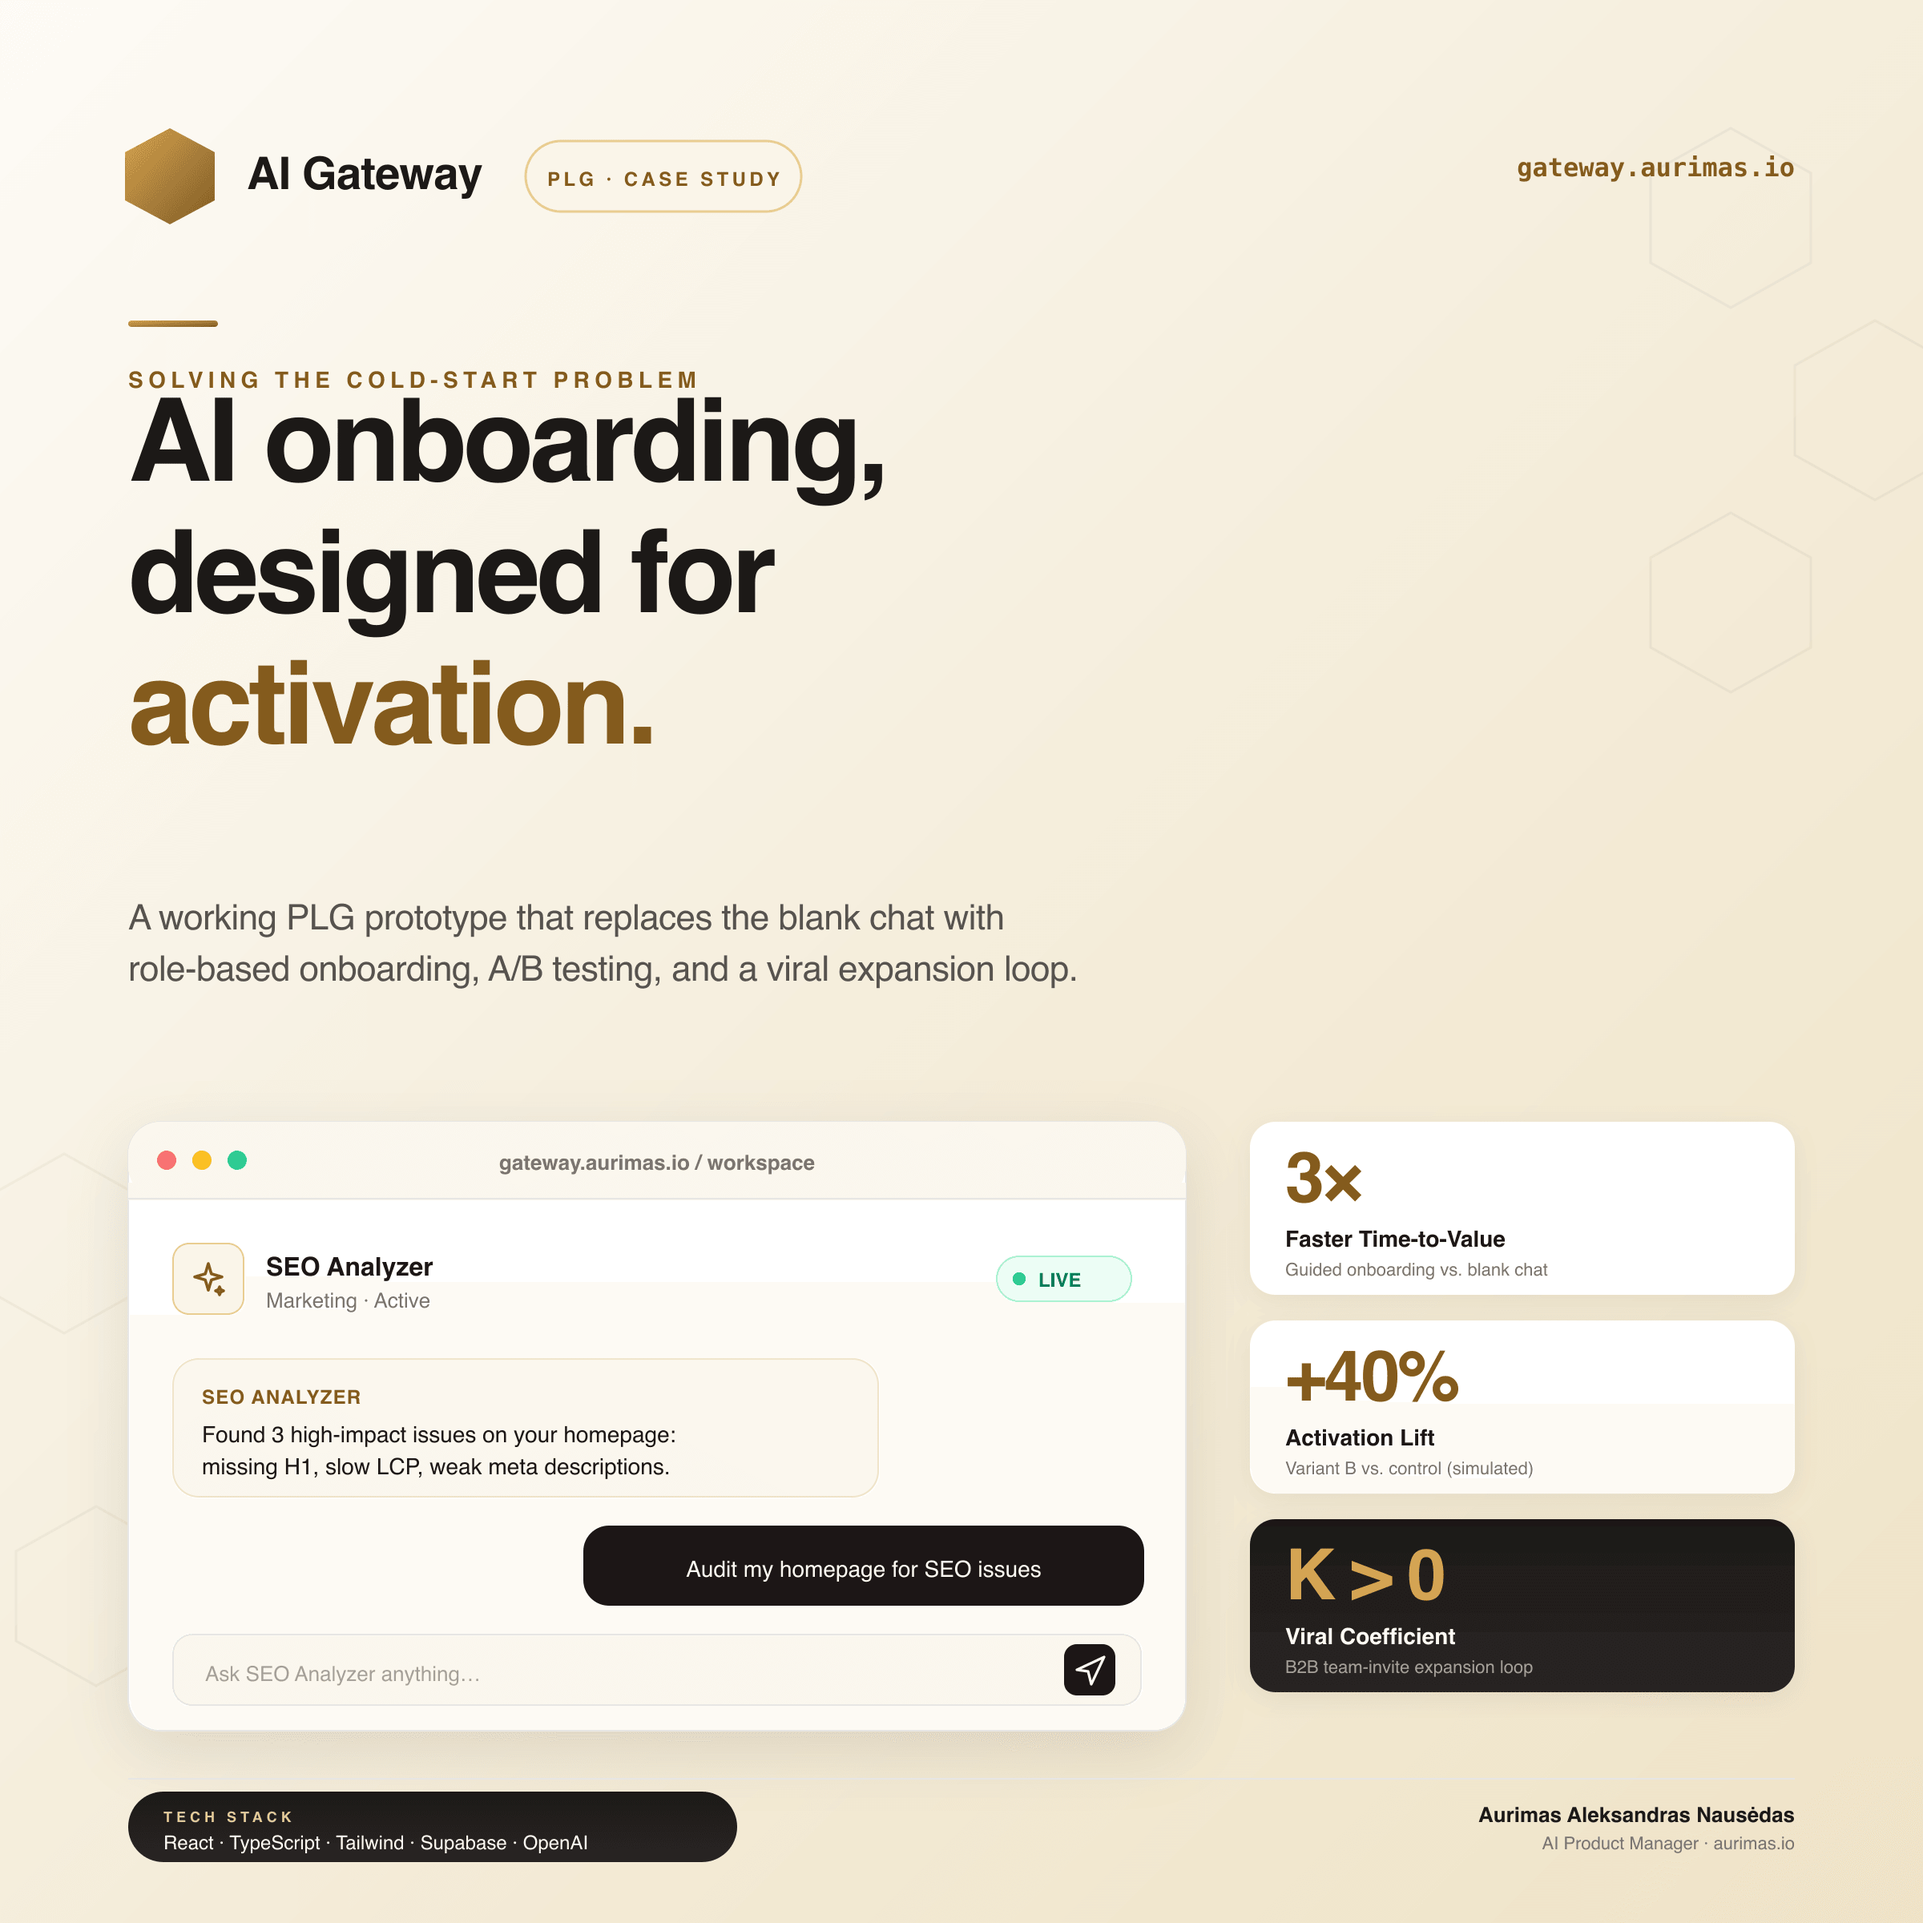
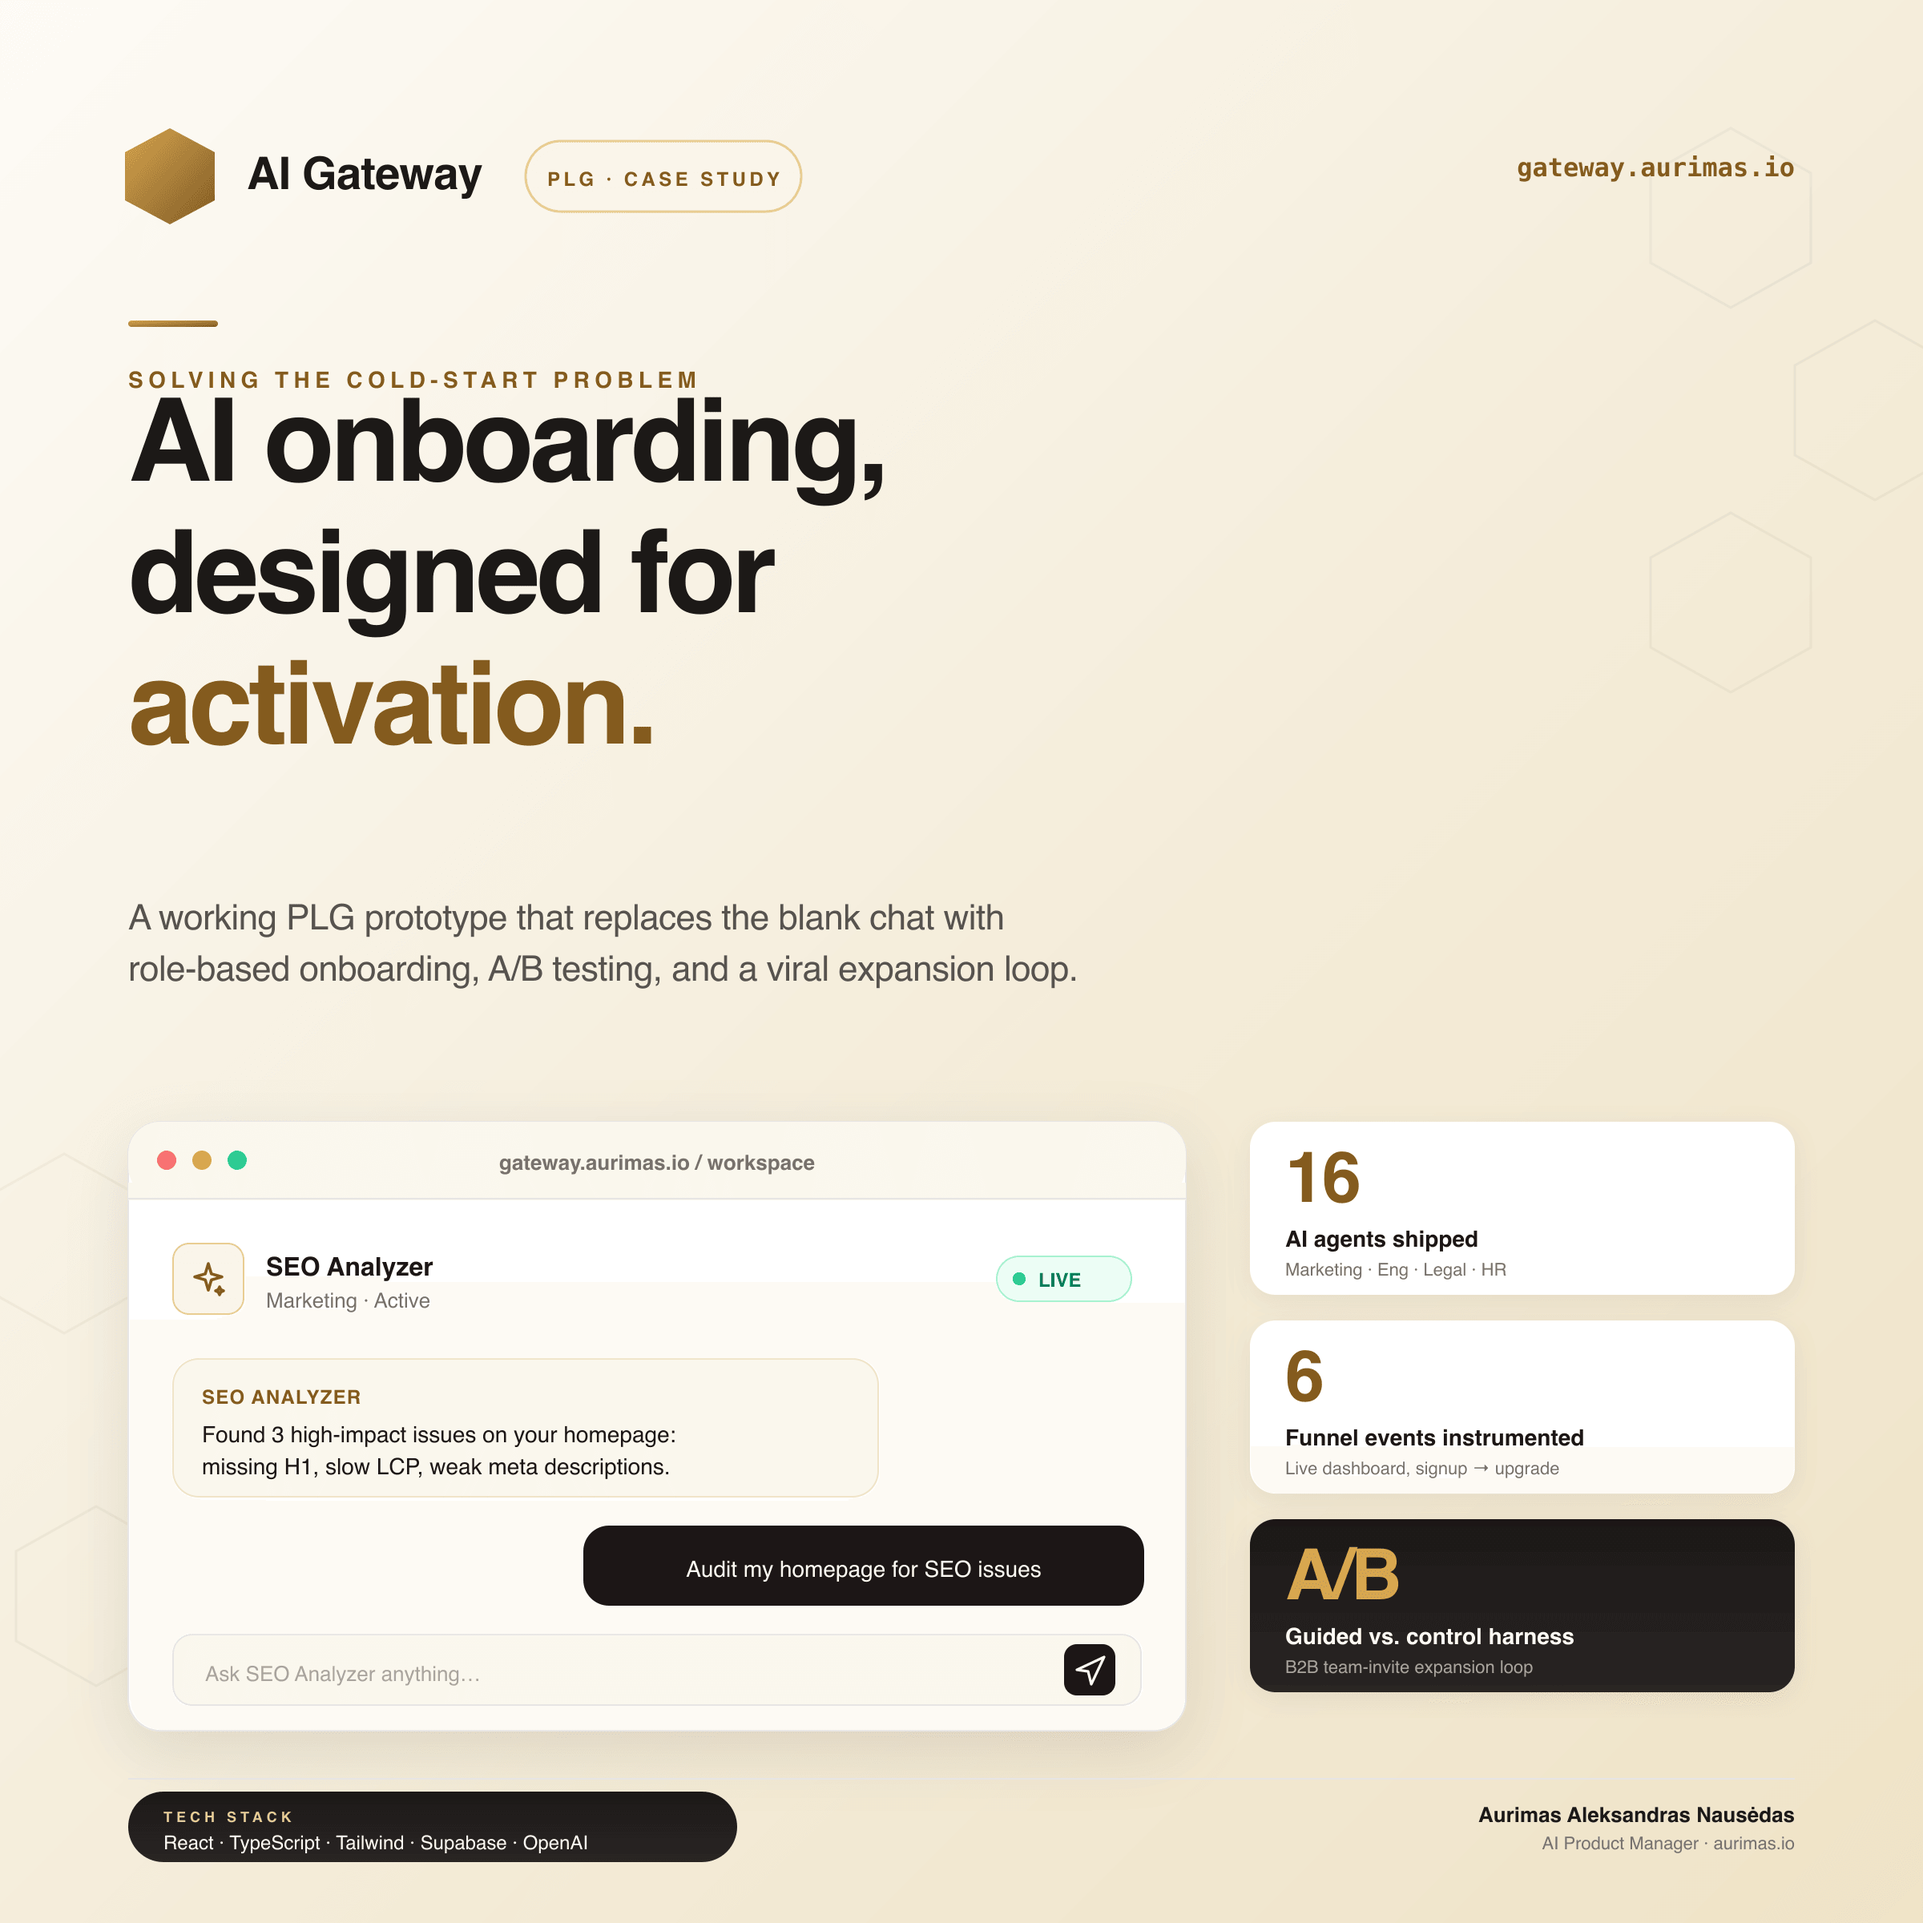
fix(content): remove fabricated metrics, fix lint, honest social images
Replace invented outcome numbers (3x TTV, +40% activation, K>0) with
verifiable build facts (16 agents, 4 roles, 6 funnel events, A/B harness)
across the case study, OG/Twitter meta, and the LinkedIn/OG share images.

- CaseStudy: reframe "What the funnel said" outcomes into "What was
  actually shipped" with real, openable scope numbers + a note that the
  metrics dashboard computes live figures (no invented conversions).
- Pricing: drop fake "SOC 2 certified / 99.9% uptime SLA" trust marks for
  honest ones (open source, BYO key, <1 min to first agent); add an
  "illustrative pricing" note; "Most chosen" -> "Recommended".
- Regenerate og-image / linkedin-square / linkedin-featured PNGs from the
  corrected SVGs; add linkedin-featured-icon variant + render target.
- Fix ESLint error (unused param in supabase fallback proxy) and remove
  three stale eslint-disable directives in analytics.

Lint, typecheck, and production build all pass clean.

Changed region(s): [[0.6562, 0.5938, 0.8125, 0.875]]

diff --git a/src/components/CaseStudy.tsx b/src/components/CaseStudy.tsx
@@ -9,11 +9,11 @@ import {
 import { Link } from 'react-router-dom';
 import TopNav from './TopNav';
 
-const outcomes = [
-  { metric: '3×', label: 'Faster Time-to-Value', detail: 'Role-based setup vs. blank chat interface' },
-  { metric: '+40%', label: 'Activation Rate Lift', detail: 'Guided flow vs. control (A/B tested)' },
-  { metric: 'K > 0', label: 'Viral Coefficient', detail: 'Team invites embedded at peak engagement' },
-  { metric: '6', label: 'Funnel Events Tracked', detail: 'Full instrumentation, signup → upgrade' },
+const scope = [
+  { metric: '16', label: 'AI agents shipped', detail: 'Across Marketing, Engineering, Legal & HR' },
+  { metric: '4', label: 'Roles supported', detail: 'Each with its own curated agent library' },
+  { metric: '6', label: 'Funnel events instrumented', detail: 'Signup → role → template → invite → paywall → upgrade' },
+  { metric: '2', label: 'Onboarding variants', detail: 'Guided (B) vs. blank-chat control (A)' },
 ];
 
 const sections = [
@@ -255,15 +255,18 @@ export default function CaseStudy() {
           transition={{ duration: 0.8, ease: [0.22, 1, 0.36, 1] }}
           className="mb-16 sm:mb-24 -mx-4 sm:-mx-8 px-4 sm:px-8 py-12 sm:py-16 bg-paper-light/60 border-y border-rule"
         >
-          <p className="silcrow mb-8">§ 04 · Outcomes</p>
+          <p className="silcrow mb-8">§ 04 · The build</p>
           <h3
-            className="font-display text-[2rem] sm:text-[2.6rem] font-medium leading-[1.05] tracking-tight text-ink mb-10 max-w-2xl"
+            className="font-display text-[2rem] sm:text-[2.6rem] font-medium leading-[1.05] tracking-tight text-ink mb-4 max-w-2xl"
             style={{ fontVariationSettings: '"SOFT" 50, "opsz" 50' }}
           >
-            What the funnel said.
+            What was actually shipped.
           </h3>
+          <p className="font-sans text-base text-stone leading-relaxed max-w-2xl mb-10">
+            This is a working prototype, not a live product with traffic — so these are the things you can open and verify, not invented conversion numbers. The <Link to="/metrics" className="text-brass hover:text-brass-deep underline decoration-brass-deep underline-offset-4">metrics dashboard</Link> computes its funnel live from real interactions (or seeded demo data).
+          </p>
           <div className="grid grid-cols-1 sm:grid-cols-2 gap-x-8 gap-y-6">
-            {outcomes.map((o, i) => (
+            {scope.map((o, i) => (
               <div
                 key={o.label}
                 className={`pt-5 ${i % 2 === 0 ? 'border-t border-rule sm:border-r sm:pr-8' : 'border-t border-rule'} `}

diff --git a/src/components/Pricing.tsx b/src/components/Pricing.tsx
@@ -171,6 +171,15 @@ export default function Pricing() {
           >
             Start free. Upgrade when you outgrow it. Cancel anytime — no contracts, no surprises.
           </motion.p>
+          <motion.p
+            variants={reveal}
+            transition={{ duration: 0.7 }}
+            className="marginalia mt-5 max-w-2xl"
+          >
+            ¶ Illustrative pricing for a portfolio prototype — tiers and limits show how the product
+            <em> would </em>
+            be packaged, not a live commercial offer.
+          </motion.p>
         </motion.section>
 
         {/* Tier list — printed price ledger, not card grid */}
@@ -213,7 +222,7 @@ export default function Pricing() {
                       </h3>
                       {t.highlight && (
                         <span className="font-mono text-[9px] uppercase tracking-[0.22em] text-brass-deep bg-brass-foil border border-brass px-1.5 py-0.5">
-                          ★ Most chosen
+                          ★ Recommended
                         </span>
                       )}
                     </div>
@@ -280,12 +289,12 @@ export default function Pricing() {
           transition={{ duration: 0.7, ease: [0.22, 1, 0.36, 1] }}
           className="mb-16 sm:mb-20 -mx-4 sm:-mx-8 px-4 sm:px-8 py-10 bg-paper-light/60 border-y border-rule"
         >
-          <p className="silcrow mb-7 justify-center sm:justify-start">§ Trust marks</p>
+          <p className="silcrow mb-7 justify-center sm:justify-start">§ How it actually works</p>
           <div className="grid grid-cols-1 sm:grid-cols-3 gap-x-6 gap-y-8">
             {[
-              { metric: '99.9%', label: 'Uptime SLA', detail: 'on Team & Enterprise' },
-              { metric: 'SOC 2', label: 'Type II certified', detail: 'audited annually' },
-              { metric: '14 days', label: 'Free Team trial', detail: 'no card required' },
+              { metric: 'Open', label: 'Source on GitHub', detail: 'read every line' },
+              { metric: 'BYO key', label: 'Your OpenAI key', detail: 'read server-side only' },
+              { metric: '< 1 min', label: 'To your first agent', detail: 'no card required' },
             ].map((s, i) => (
               <div
                 key={s.label}

diff --git a/index.html b/index.html
@@ -19,7 +19,7 @@
     <meta property="og:type" content="website" />
     <meta property="og:site_name" content="AI Gateway" />
     <meta property="og:title" content="AI Gateway — Solving the Cold-Start Problem in AI Platforms" />
-    <meta property="og:description" content="A PLG prototype that replaces blank AI chat interfaces with role-based guided onboarding. 3× faster Time-to-Value, +40% activation lift, K > 0 viral coefficient." />
+    <meta property="og:description" content="A PLG prototype that replaces blank AI chat interfaces with role-based guided onboarding — 16 agents, a live funnel dashboard, and an A/B harness. A product case study by Aurimas A. Nausėdas." />
     <meta property="og:url" content="https://gateway.aurimas.io" />
     <meta property="og:image" content="https://gateway.aurimas.io/og-image.png" />
     <meta property="og:image:width" content="1200" />

diff --git a/src/lib/analytics.ts b/src/lib/analytics.ts
@@ -169,7 +169,6 @@ export async function trackFunnelEvent(payload: FunnelPayload): Promise<void> {
       diag.lastInsertResult = 'error';
       diag.lastInsertError = error.message;
       // Surface in console so devs notice during local development.
-      // eslint-disable-next-line no-console
       console.warn('[analytics] Supabase insert failed:', error.message);
     } else {
       diag.lastInsertResult = 'ok';
@@ -178,7 +177,6 @@ export async function trackFunnelEvent(payload: FunnelPayload): Promise<void> {
   } catch (err) {
     diag.lastInsertResult = 'error';
     diag.lastInsertError = err instanceof Error ? err.message : 'Unknown error';
-    // eslint-disable-next-line no-console
     console.warn('[analytics] Supabase insert threw:', diag.lastInsertError);
   }
 

diff --git a/src/lib/supabase.ts b/src/lib/supabase.ts
@@ -10,11 +10,10 @@ const noopResult = Promise.resolve({ data: null, error: null });
 const chainProxy: ProxyHandler<object> = {
   get: (_target, prop) => {
     if (prop === 'then') return undefined;
-    return (..._args: unknown[]) => new Proxy(noopResult, chainProxy);
+    return () => new Proxy(noopResult, chainProxy);
   },
 };
 
-// eslint-disable-next-line @typescript-eslint/no-explicit-any
 export const supabase = (isConfigured
   ? createClient(supabaseUrl, supabaseAnonKey)
   : new Proxy({}, chainProxy)) as SupabaseClient;
